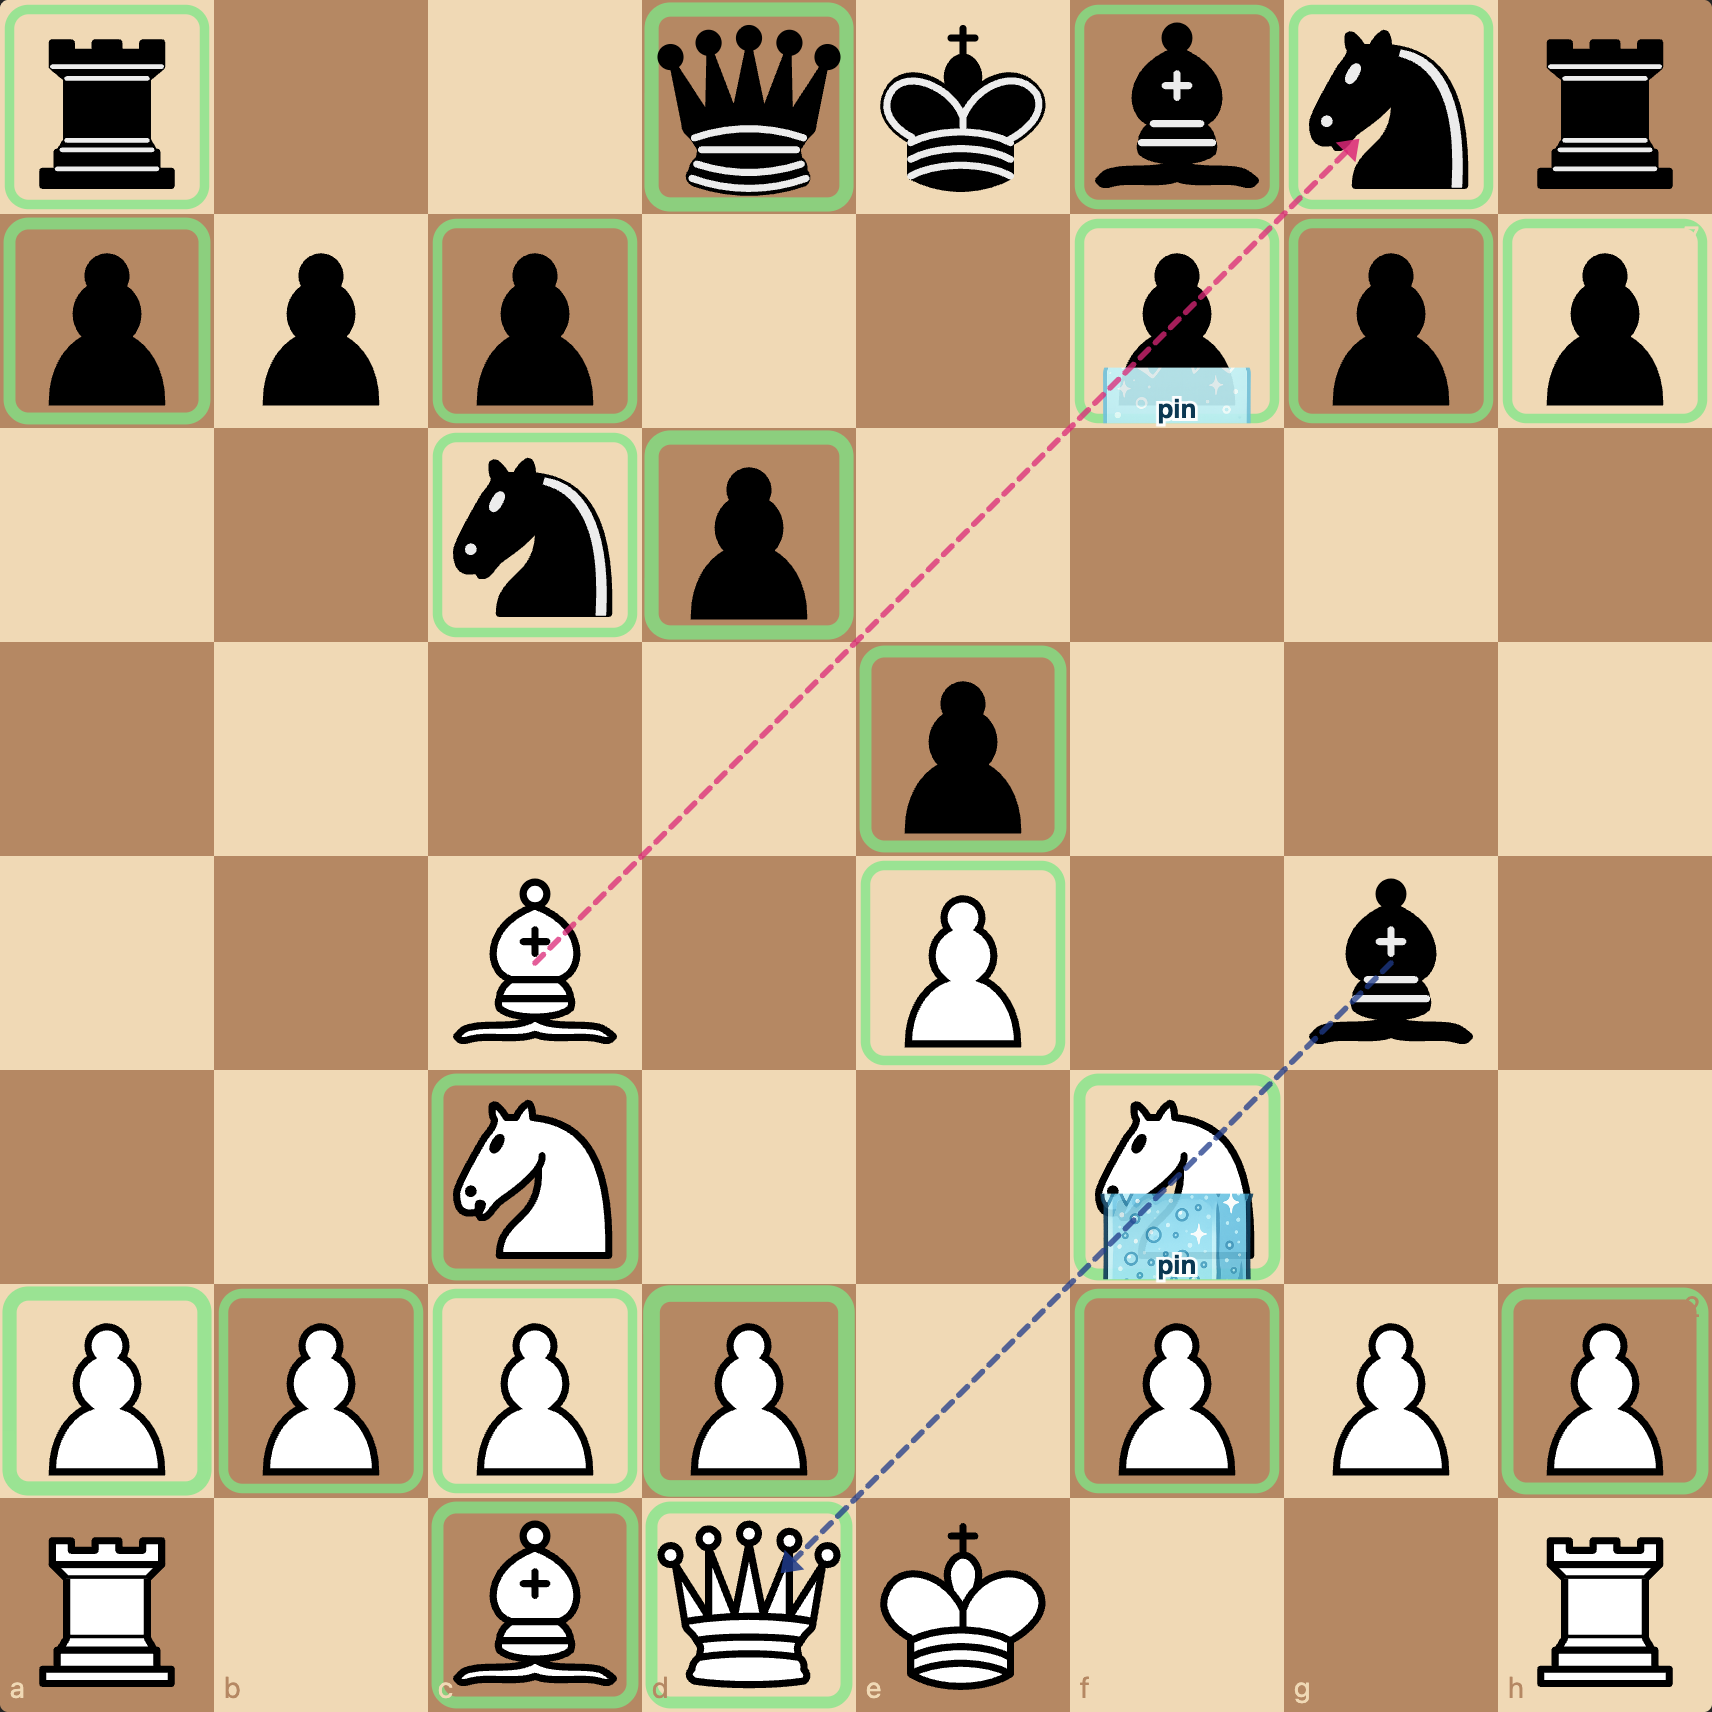
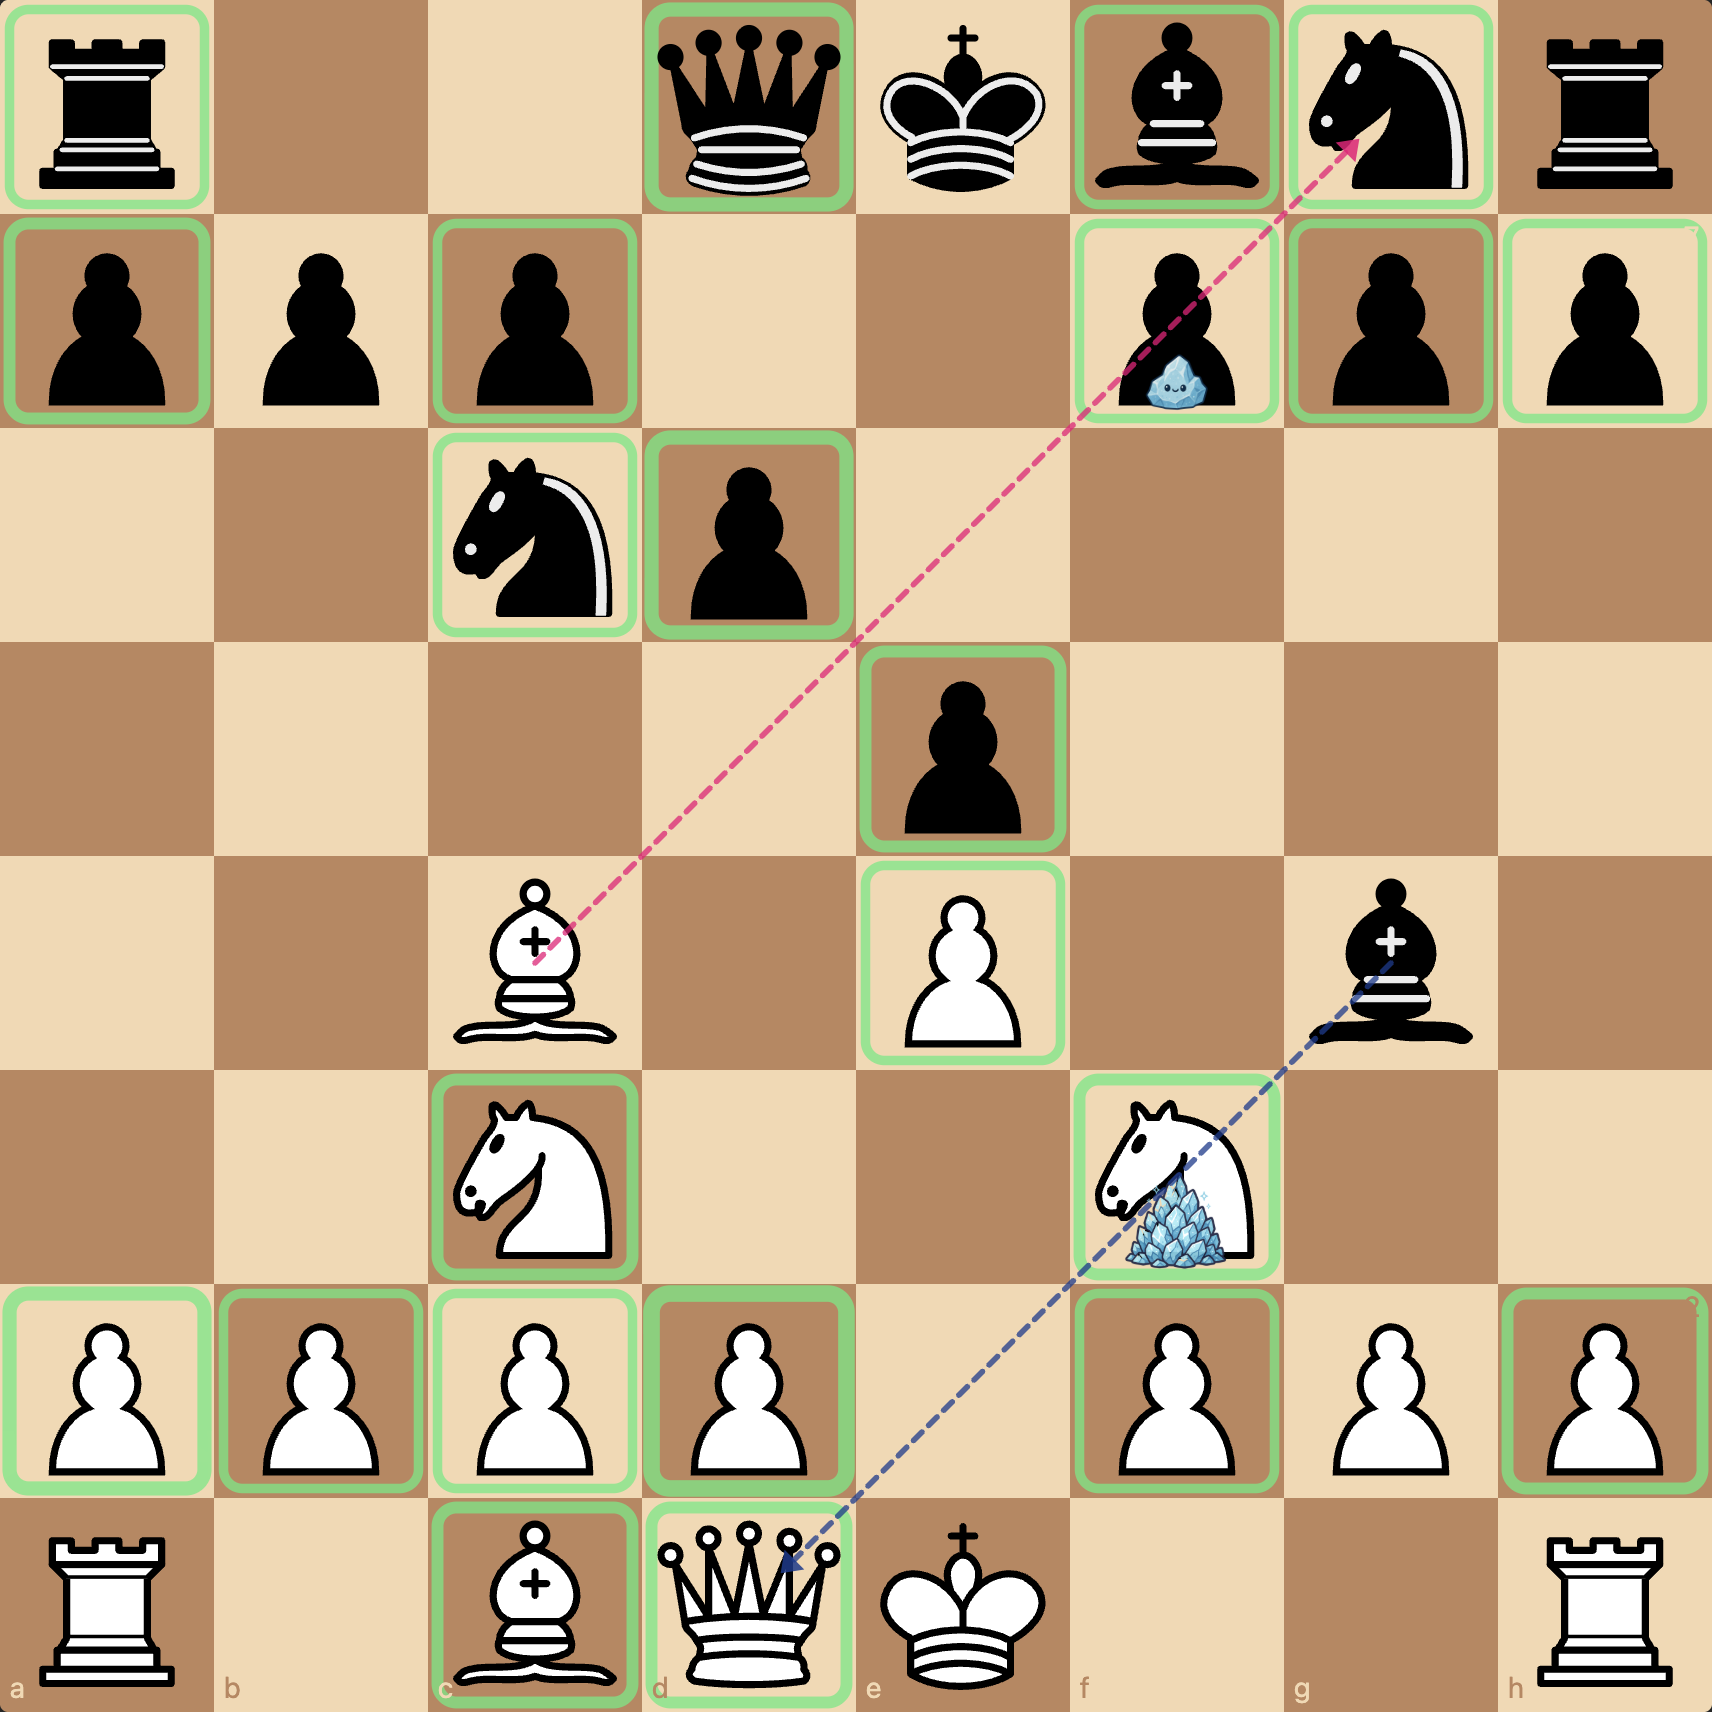
ice sprites: jagged crystalline shards, big for K/Q pins, small for the rest

Changed region(s): [[0.6192, 0.6811, 0.743, 0.7739], [0.6192, 0.1857, 0.743, 0.2477]]

diff --git a/js/viz3-pins.js b/js/viz3-pins.js
@@ -80,45 +80,24 @@ function iceCoverage(pin, board) {
 
 function drawIce(layer, idx, pin, board) {
   const { x, y } = squareXY(idx);
-  const isAbsolute = pin.severity === 'absolute';
 
-  const pinned = board[idx];
-  const behindVal = pieceValue(pin.behindPiece);
-  const pinnedVal = pieceValue(pinned.piece);
-  const diff = behindVal - pinnedVal;
+  // Two flavours: big ice when the pin protects the king or the queen (the high-stakes pins),
+  // small ice otherwise. Cleaner mental model than the value-differential ladder we had before.
+  const isBigStake = pin.behindPiece === 'K' || pin.behindPiece === 'Q';
+  const spriteName = isBigStake ? 'ice_full' : 'ice_half';
 
-  // Ice cover, shrunk so we can crank opacity up. Goal: the ice reads as solid ice,
-  // not water, but never hides enough of the piece to make it unidentifiable.
-  let cover;
-  if (isAbsolute) cover = 0.42;
-  else if (diff <= 1) cover = 0.18;
-  else if (diff === 2) cover = 0.26;
-  else if (diff <= 4) cover = 0.34;
-  else cover = 0.40;
+  // The sprites are roughly square; display them as squares so the new jagged silhouette reads
+  // properly. Anchored at the bottom of the cell so the ice looks like it's growing from the floor.
+  const size = SQ * (isBigStake ? 0.55 : 0.38);
+  const iceX = x + (SQ - size) / 2;
+  const iceY = y + SQ - size - 2;
 
-  const opacity = 0.92;
-  const spriteName = (isAbsolute || diff >= 4) ? 'ice_full' : 'ice_half';
-
-  const iceH = SQ * cover;
-  const iceY = y + SQ - iceH - 2;
-  const img = el('image', {
-    x: x + 2, y: iceY, width: SQ - 4, height: iceH,
+  layer.appendChild(el('image', {
+    x: iceX, y: iceY, width: size, height: size,
     href: `sprites/${spriteName}.png`,
-    preserveAspectRatio: 'xMidYMid slice',
-    opacity,
-  });
-  layer.appendChild(img);
-
-  // Severity badge, small label below the ice.
-  const label = isAbsolute ? 'PIN' : 'pin';
-  const t = el('text', {
-    x: x + SQ / 2, y: y + SQ - 4,
-    'text-anchor': 'middle', 'font-size': 11, 'font-weight': 700,
-    fill: '#0a3852', stroke: 'rgba(255,255,255,0.95)', 'stroke-width': 2.5, 'paint-order': 'stroke',
-    'font-family': 'sans-serif',
-  });
-  t.textContent = label;
-  layer.appendChild(t);
+    preserveAspectRatio: 'xMidYMid meet',
+    opacity: 0.95,
+  }));
 }
 
 function drawPinLine(layer, pin, board) {
@@ -169,7 +148,7 @@ export function buildControls(root, state, onChange) {
 }
 export function legendHTML() {
   return `
-    <div><span class="swatch" style="background: rgba(140,220,255,0.6); border: 1px solid #cdf"></span> Ice, pinned piece. Height grows with how much is at stake behind it (light sliver = pawn pinned against a knight; tall block = piece pinned against the king).</div>
+    <div><span class="swatch" style="background: rgba(140,220,255,0.6); border: 1px solid #cdf"></span> Ice, pinned piece. Big pile = pinned against the king or the queen (the high-stakes pins). Small shard = pinned against a less valuable piece.</div>
     <div style="margin-top: 6px;"><span class="swatch" style="background: rgba(126,231,135,0.4); border: 2px solid #7ee787"></span> Green ring, piece is defended (thicker = more defenders).</div>
     <div style="margin-top: 6px;"><span class="swatch" style="background: transparent; border: 2px dashed #ff6b6b"></span> Red dashed ring, hanging (attacked &amp; undefended). Glyph also fades.</div>
     <div style="margin-top: 6px;">Pin line is dashed in the attacker's color, pink if a white piece is doing the pinning, blue if it's a black piece.</div>

diff --git a/scripts/generate_sprites.py b/scripts/generate_sprites.py
@@ -62,19 +62,22 @@ def piece_prompt(piece: str, color: str) -> str:
     )
 
 ICE_PROMPT = (
-    "A semi-transparent ice block / ice cube sprite, viewed from the front. "
-    "Frosty pale-blue color with white frost highlights, jagged crystalline top edge, "
-    "small bubbles trapped inside, a few sparkles. The ice is meant to be overlaid on a "
-    "chess piece to make it look frozen-in-place. Squarish shape that fills a square cell. "
-    "Fully transparent background, no scene around it. "
-    "Cute, friendly art style with bold dark outlines matching a kids chess game."
+    "A pile of jagged crystalline ice shards stacked together, not a single block. Irregular "
+    "broken edges everywhere, no straight lines anywhere. Translucent pale-blue ice with bright "
+    "white frost highlights, a few trapped bubbles, sparkles catching the light. The pile is "
+    "roughly hill-shaped, wider at the bottom and tapering toward the top into sharp uneven peaks. "
+    "Designed to overlay a chess piece to make it look frozen in place. Fully transparent "
+    "background, no scene around it. Cute kawaii illustration style with bold dark outlines, "
+    "centered in the frame."
 )
 
 ICE_HALF_PROMPT = (
-    "A semi-transparent ice block sprite, like a chunk of frost climbing up from the bottom "
-    "of a square. Frosty pale-blue with white highlights, jagged crystalline top edge halfway up the frame, "
-    "small bubbles and sparkles. Designed to overlay just the bottom half of a chess piece "
-    "so the piece looks partially frozen. Fully transparent background. Cute kids-game art style."
+    "A single small jagged ice shard, irregular crystalline shape like a chunk broken off a "
+    "larger ice formation. Translucent pale-blue with bright white frost highlights and a couple "
+    "of trapped bubbles. Sharp uneven edges on every side, no straight lines anywhere. Sized like "
+    "a small wedge or fragment, low and compact. Designed to overlay just the lower portion of a "
+    "chess piece. Fully transparent background. Cute kawaii illustration style with bold dark "
+    "outlines, centered in the frame."
 )
 
 THOUGHT_BUBBLE_PROMPT = (
